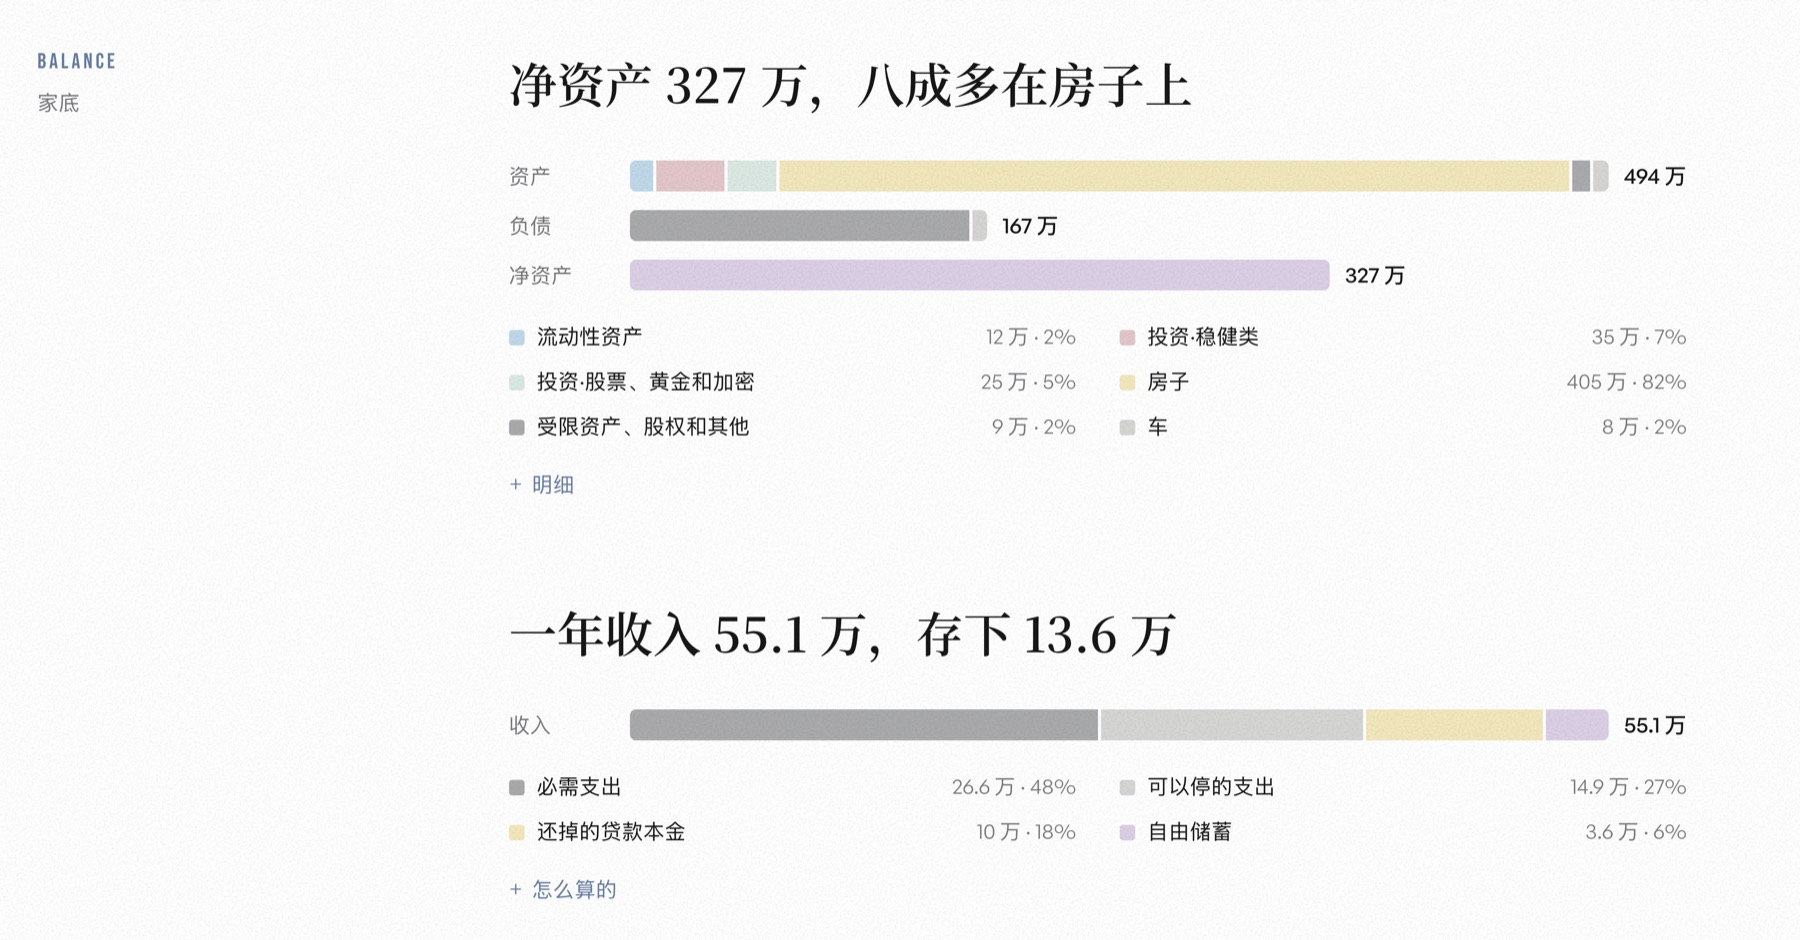
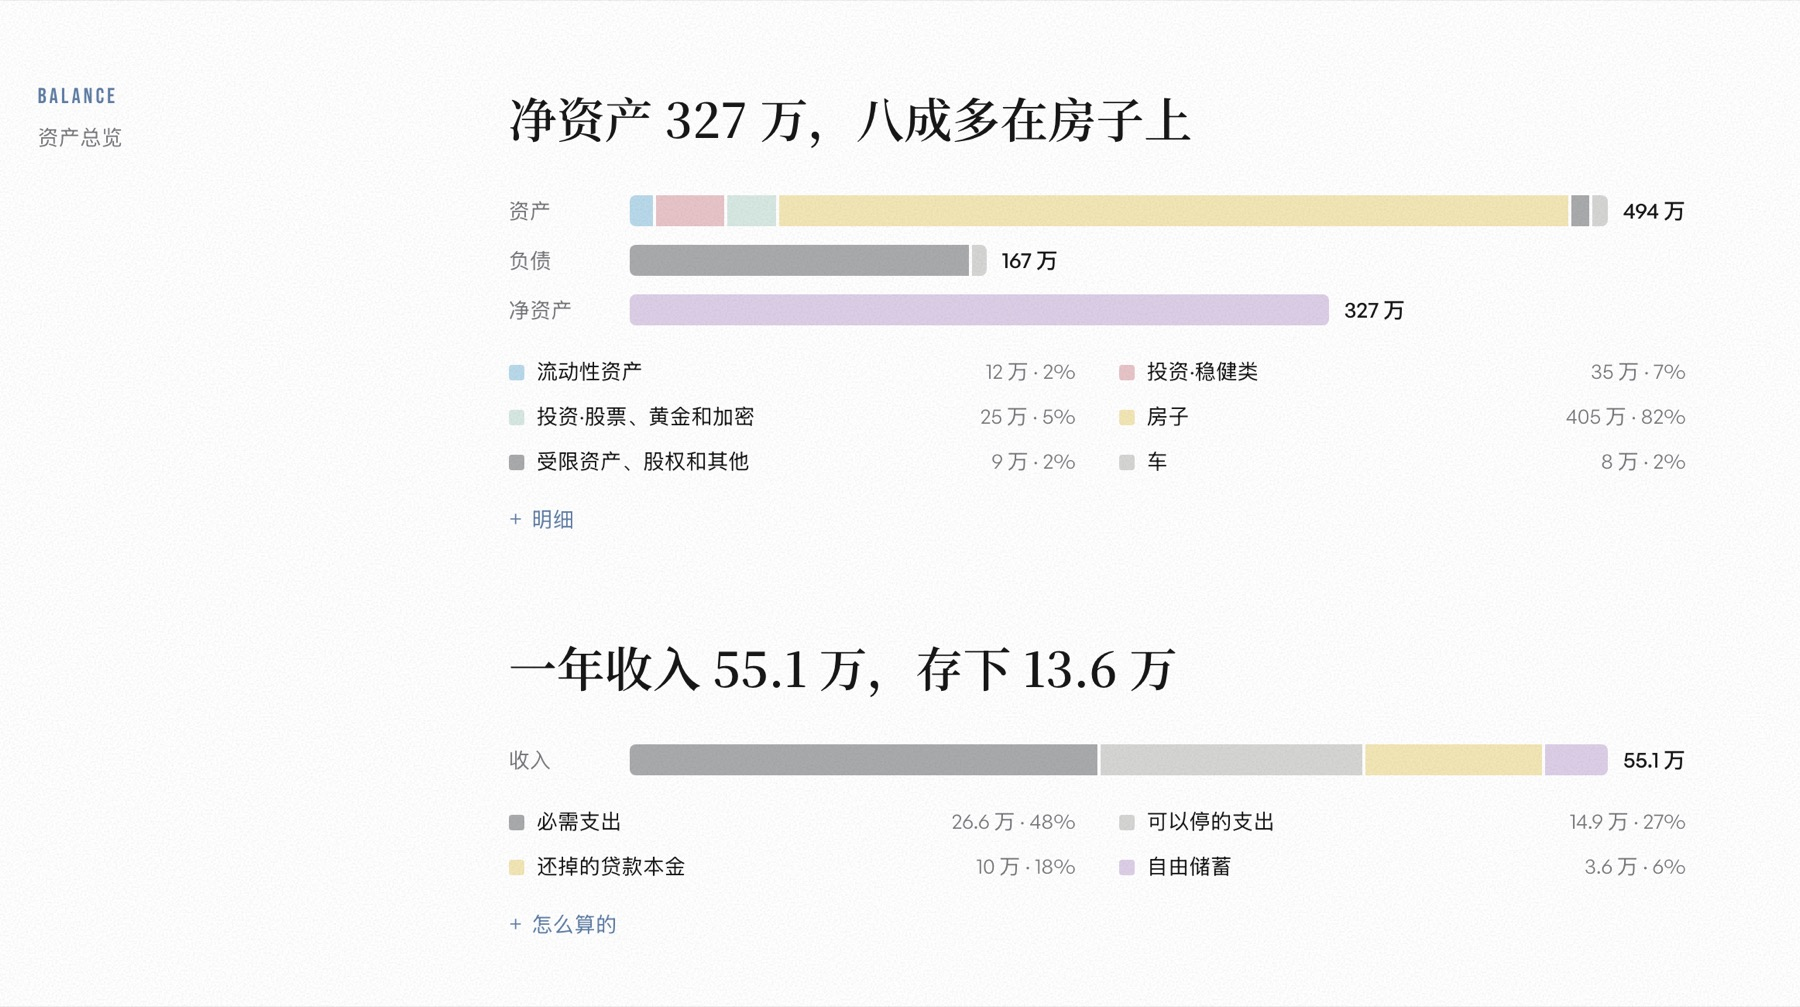
「家底」改名「资产总览」；更新截图

diff --git a/index.html b/index.html
@@ -219,7 +219,7 @@ details.rqd{margin-top:34px}
 .tb.fx .in.x2 .field{flex:1;min-width:0}
 @container (max-width:760px){.stages{grid-template-columns:repeat(5,minmax(0,1fr));gap:6px}.stg .t{font-size:13px}.stg .lb{font-size:12px}.mods{gap:2px 22px}}
 @media print{.mod{display:block!important}.mods,.mnav{display:none!important}}
-/* ── 体检报告 v6：总评 → 家底 → 阶段 → 五层体检 → 钱该怎么放 → 行动清单 → 分享 ── */
+/* ── 体检报告 v6：总评 → 资产总览 → 阶段 → 五层体检 → 钱该怎么放 → 行动清单 → 分享 ── */
 :root{--trk:#F1F0EC}
 .hl{font-family:var(--display);font-weight:600;font-size:clamp(23px,2.5cqw,31px);line-height:1.42;text-wrap:balance}
 .hs{margin-top:10px;font-size:15.5px;line-height:1.8}
@@ -383,7 +383,7 @@ details.how p{padding:0}
 <section class="rv" style="padding-top:clamp(48px,8cqw,120px)">
   <div class="lb">LONG ARC · 投资配置 · TOOL</div>
   <h1 class="h1" style="margin-top:14px">家庭资产配置体检</h1><div class="rule"></div>
-  <p class="lead" style="margin-top:22px;max-width:36em">一次性的检查，分三部分：先填体检问卷，再看体检报告，最后可以写一页投资政策书。报告先给总评和家底，再告诉你在哪个财务阶段、五层里哪一层要先补、钱该怎么放，最后列出接下来要做的几件事，可以存成图片或 PDF。</p>
+  <p class="lead" style="margin-top:22px;max-width:36em">一次性的检查，分三部分：先填体检问卷，再看体检报告，最后可以写一页投资政策书。报告先给总评和资产总览，再告诉你在哪个财务阶段、五层里哪一层要先补、钱该怎么放，最后列出接下来要做的几件事，可以存成图片或 PDF。</p>
   <p class="s" style="margin-top:12px;max-width:42em">你填的数只存在这台设备的浏览器里，不会上传。换设备或清理浏览器之前，先备份数据。所有金额的单位都是万元。</p>
   <div class="bar no-print">
     <button type="button" class="lk" data-act="sample">填入示例家庭</button>
@@ -506,13 +506,13 @@ details.how p{padding:0}
 <!-- ══════════ 02 体检报告 ══════════ -->
 <div class="mod" data-mod="2">
 <section class="mhead" id="s-report"><div class="lb">02 · REPORT</div><h2 class="h1" style="margin-top:12px">体检报告</h2><p class="s" style="margin-top:12px" data-out="rmeta"></p>
-  <nav class="subnav no-print"><a class="lk" href="#s-verdict">总评</a><a class="lk" href="#s-balance">家底</a><a class="lk" href="#s-stage">阶段</a><a class="lk" href="#s-layers">五层体检</a><a class="lk" href="#s-advice">钱该怎么放</a><a class="lk" href="#s-actions">行动清单</a><a class="lk" href="#s-share">保存和分享</a></nav></section>
+  <nav class="subnav no-print"><a class="lk" href="#s-verdict">总评</a><a class="lk" href="#s-balance">资产总览</a><a class="lk" href="#s-stage">阶段</a><a class="lk" href="#s-layers">五层体检</a><a class="lk" href="#s-advice">钱该怎么放</a><a class="lk" href="#s-actions">行动清单</a><a class="lk" href="#s-share">保存和分享</a></nav></section>
 <section class="two stp" id="s-verdict">
   <div><div class="lb">VERDICT</div><p class="s" style="margin-top:6px">总评</p></div>
   <div data-out="verdict"></div>
 </section>
 <section class="two stp" id="s-balance">
-  <div><div class="lb">BALANCE</div><p class="s" style="margin-top:6px">家底</p></div>
+  <div><div class="lb">BALANCE</div><p class="s" style="margin-top:6px">资产总览</p></div>
   <div data-out="balance"></div>
 </section>
 <section class="two stp" id="s-stage">

diff --git a/checkup.js b/checkup.js
@@ -554,7 +554,7 @@ function renderAll() {
 
 
 /* ── 体检报告 ── */
-/* 顺序：总评 → 家底 → 阶段 → 五层体检 → 钱该怎么放 → 行动清单 → 保存和分享；设计见 体检报告-设计.md */
+/* 顺序：总评 → 资产总览 → 阶段 → 五层体检 → 钱该怎么放 → 行动清单 → 保存和分享；设计见 体检报告-设计.md */
 const FID = [[22, 0], [30, 1], [40, 3], [50, 6], [60, 8], [67, 10]]; /* Fidelity 按年龄的储蓄倍数 */
 const fidelity = a => { if (a <= 22) return 0; if (a >= 67) return 10; for (let i = 1; i < FID.length; i++) { const [a1, v1] = FID[i - 1], [a2, v2] = FID[i]; if (a <= a2) return v1 + (v2 - v1) * (a - a1) / (a2 - a1) } return 10 };
 const freeBand = a => a < 30 ? [5, 15] : a < 40 ? [15, 30] : a < 50 ? [30, 50] : [50, 100]; /* AFP 培训口径：财务自由度按年龄 */
@@ -638,7 +638,7 @@ function renderReport(r, ready) {
   out('verdict', `<h2 class="hl">${head}</h2>${top ? `<p class="hs">最要紧的一件：${dims[top].fix}<a class="lk" href="#s-layers" style="margin-left:10px">看五层体检</a></p>` : ''}
     <div class="kpis">${kpi.map(([l, v, d]) => `<div class="kpi"><div class="l">${l}</div><div class="n">${big(v)}</div><div class="d">${d}</div></div>`).join('')}</div>`);
 
-  /* 2 家底 */
+  /* 2 资产总览 */
   const A = [['流动性资产', r.L, 'sky'], ['投资·稳健类', r.S, 'pink'], ['投资·股票、黄金和加密', r.K + r.G + r.X, 'mint'], ['房子', r.V, 'butter'], ['受限资产、股权和其他', r.R + r.PE + r.O, 'grey'], ['车', r.C, 'stone']];
   const Dd = [['房贷', r.mortBal, 'grey'], ['其他负债', Math.max(0, r.Dt - r.mortBal), 'stone']];
   const hS = r.TA > 0 ? r.V / r.TA : 0, fS = r.TA > 0 ? r.F / r.TA : 0;
@@ -948,7 +948,7 @@ function toMd() {
   const r = calc(), L = [];
   L.push('# 我的家庭资产配置体检', '', `用慢复利「家庭资产配置体检」整理，${stamp()}。金额单位：万元。下面的数是按一套方法算出的参考，请帮我检查有没有漏掉的情况、哪些数值得再想想。不需要推荐具体的基金或产品。`, '');
   const fin = [['cash', defsOf('cash')], ['inv', defsOf('inv')]].flatMap(([g, defs]) => defs.filter(d => amt(g, d.k) > 0).map(d => `${d.name} ${amt(g, d.k)}（预期年化 ${rateOf(g, d)}%）`));
-  L.push('## 家底', `- 家庭成员：${st.members.map(m => `${m.name || '家庭成员'}（${ROLEN[m.role]}，${m.age || '?'} 岁${n(m.income) ? `，税后年收入 ${n(m.income)}，${{ stable: '稳定', vol: '波动大', mkt: '跟着股市' }[m.itype]}` : ''}）`).join('、')}`,
+  L.push('## 资产总览', `- 家庭成员：${st.members.map(m => `${m.name || '家庭成员'}（${ROLEN[m.role]}，${m.age || '?'} 岁${n(m.income) ? `，税后年收入 ${n(m.income)}，${{ stable: '稳定', vol: '波动大', mkt: '跟着股市' }[m.itype]}` : ''}）`).join('、')}`,
     `- 金融资产：${fin.join('；') || '未填'}；加权约 ${pc(r.ret, 1)}`,
     `- 不好随时卖的：${defsOf('ill').filter(d => amt('ill', d.k) > 0).map(d => `${d.name} ${amt('ill', d.k)}${d.x && has(st.ill[d.k][d.x]) ? `（${d.xl} ${n(st.ill[d.k][d.x])}）` : ''}`).join('；') || '无'}（房子按九折记）`,
     `- 负债：${defsOf('debt').filter(d => has(st.debt[d.k].bal)).map(d => `${d.name} ${n(st.debt[d.k].bal)}（年化 ${n(st.debt[d.k].rate)}%，月还 ${n(st.debt[d.k].pay)}）`).join('；') || '无'}`,

diff --git a/README.md b/README.md
@@ -22,7 +22,7 @@
 
 1. **体检问卷**：先填家庭成员，再填资产、负债、收入、支出、计划和保障。每个数只填一次，前面填过的会自动带到后面；能算出来的不问，比如利息、贷款月还款，预填好了，也可以改。
 2. **体检报告**：
-   - **家底**：净资产多少、钱都在哪、一年存下多少。
+   - **资产总览**：净资产多少、钱都在哪、一年存下多少。
    - **你在哪一步**：财务摸底 → 安全筑基 → 积累增长 → 配置管理 → 家族传承。只讲当前这一步要做到什么，后面几步点开可以先看看。
    - **五层体检**：风险保障、流动储备、债务管理、收支结余、财富积累，每层给一个状态（稳、留意、先处理），点一层看细节。
    - **钱该怎么放**：活钱、稳钱、长钱各该有多少，长钱里股票放多少；收入断了能撑几个月，股市跌一半会少多少钱。
@@ -30,9 +30,9 @@
    - **存成图片或 PDF**：分享图默认不带金额，放哪些部分自己选；二维码指回工具。
 3. **投资政策书**：私人银行和投资顾问给客户写的那一页纸，普通家庭也可以有一页。能算的已经按报告填好，剩下的自己写，打印出来和家人一起签字，附 10%、20%、30% 三档下跌时的预案。
 
-| 问卷 | 家底 |
+| 问卷 | 资产总览 |
 |---|---|
-| ![体检问卷全貌](screenshots/questionnaire.jpg) | ![家底：资产、负债和一年的收支](screenshots/balance.jpg) |
+| ![体检问卷全貌](screenshots/questionnaire.jpg) | ![资产总览：资产、负债和一年的收支](screenshots/balance.jpg) |
 
 | 分享图 | 投资政策书 |
 |---|---|
